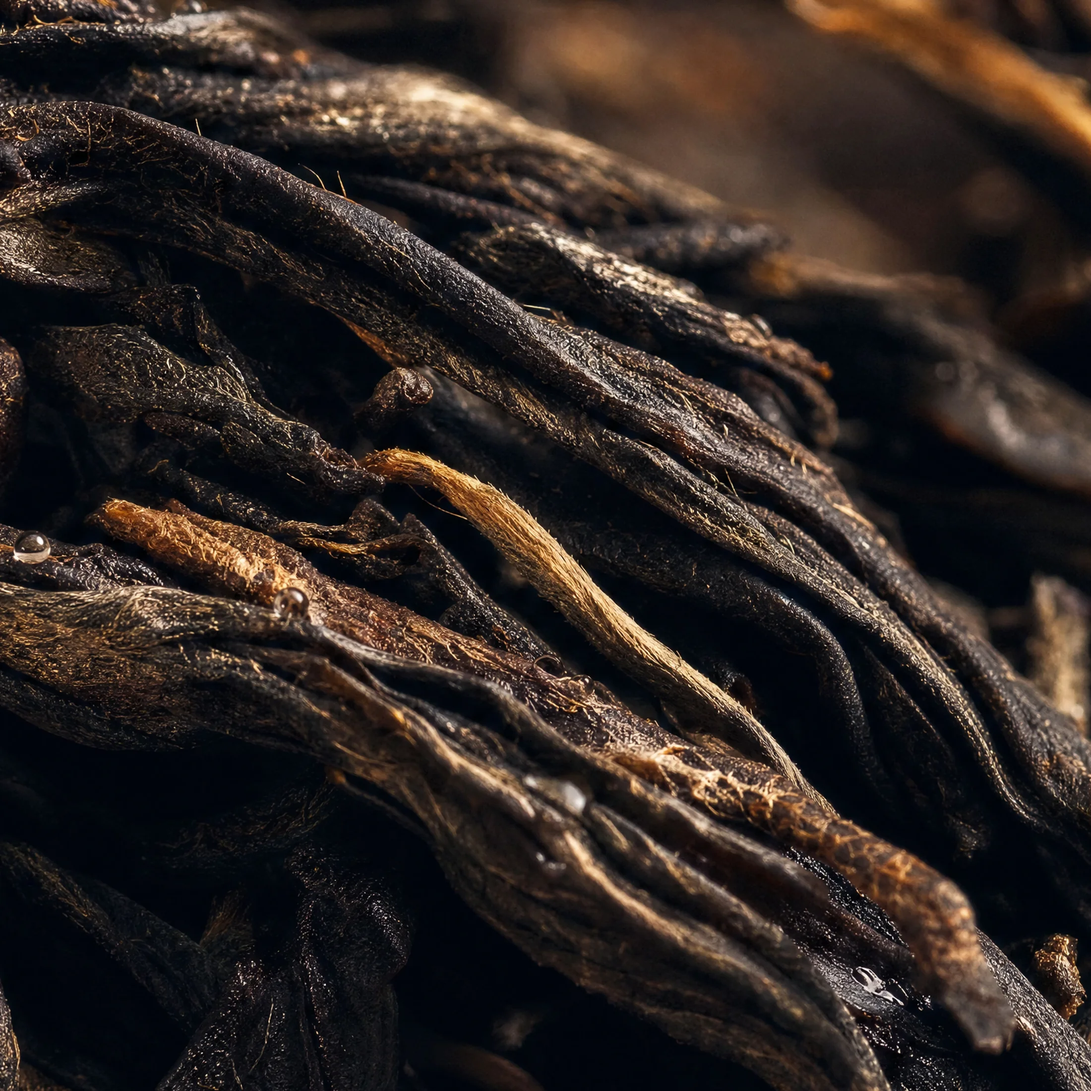
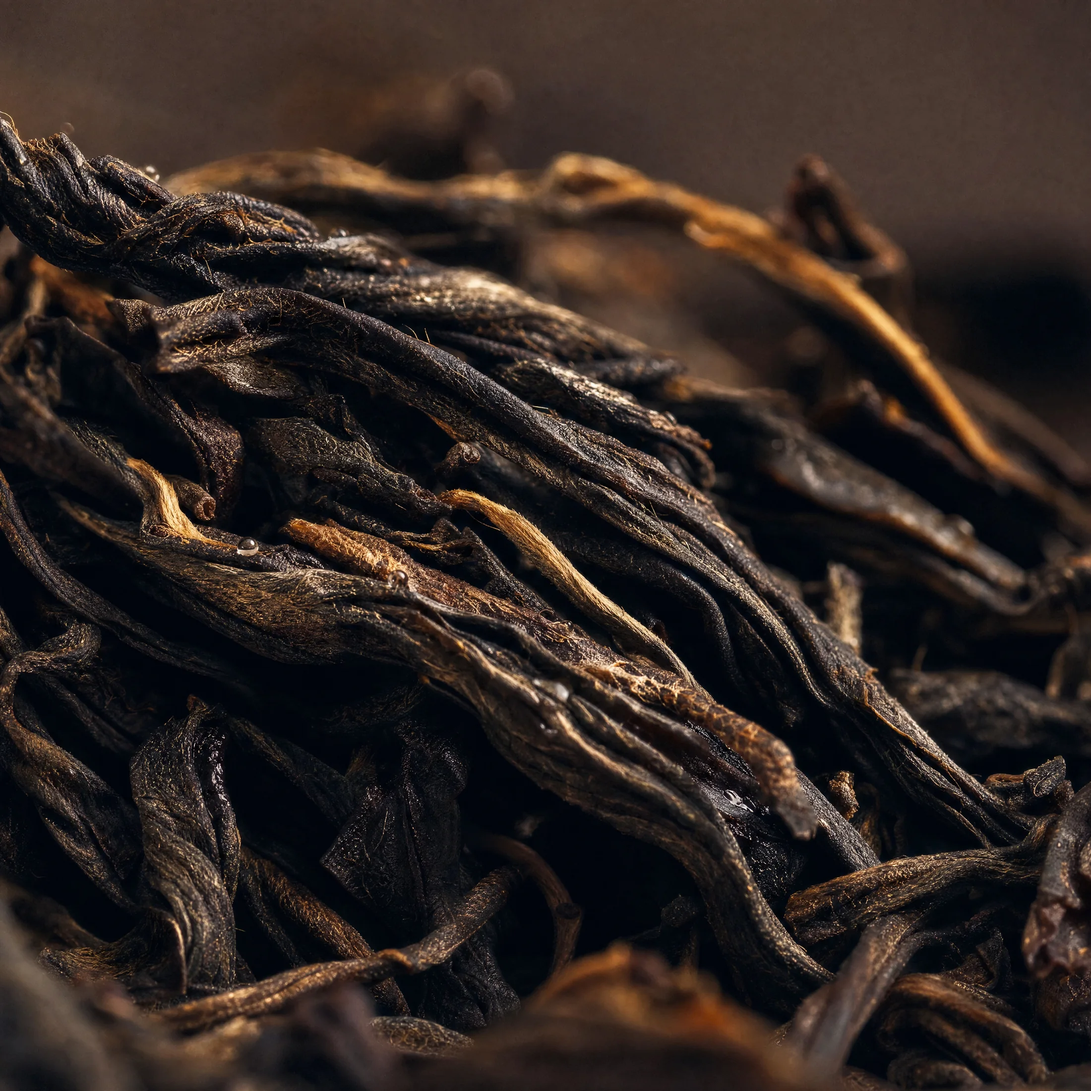
Move living-light edge glow to Home; reduce Home leaf zoom
- Home leaf re-cut wider (full frame instead of a tight 58% crop) so it's far
  less zoomed, rendered static with the flowing emerald edge 'living light'.
- Generated home-leaf-edges map to match.
- Reverted Shop to its plain breathing-zoom background (to be styled next).

diff --git a/src/pages/Home.jsx b/src/pages/Home.jsx
@@ -61,7 +61,13 @@ const UGC = [
 export default function Home() {
   return (
     <main className="relative">
-      <LeafBackground image="/images/home-leaf-bg.webp" ease={0.03} scale={1.14} />
+      <LeafBackground
+        image="/images/home-leaf-bg.webp"
+        staticImage
+        scale={1.04}
+        edges="/images/home-leaf-edges.png"
+        edgeColor="#3fe6b3"
+      />
       <div className="relative z-10">
       {/* Minimal hero: the fixed leaf background shows through this transparent
           panel (no 3D cup, no words — placeholder while the top is reworked). */}

diff --git a/src/pages/Shop.jsx b/src/pages/Shop.jsx
@@ -18,13 +18,7 @@ export default function Shop() {
 
   return (
     <main className="relative">
-      <LeafBackground
-        image="/images/shop-leaf-bg.webp"
-        staticImage
-        scale={1.04}
-        edges="/images/shop-leaf-edges.png"
-        edgeColor="#3fe6b3"
-      />
+      <LeafBackground image="/images/shop-leaf-bg.webp" ease={0.06} scale={1.18} />
       <LayeredHero
         image="/images/shop-hero.webp"
         cutout="/images/shop-hero-cup.webp"
